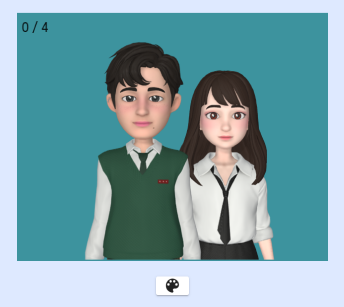
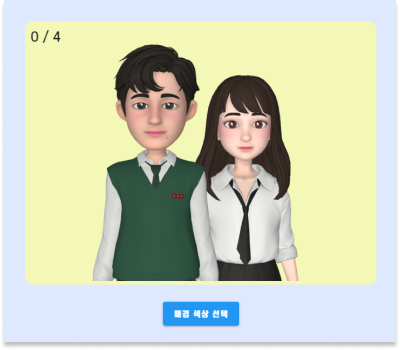
Update: 도움말 이미지 수정

diff --git a/moweb_front/src/views/MainView.vue b/moweb_front/src/views/MainView.vue
@@ -117,7 +117,7 @@ body {
 }
 .titleForm {
   min-width: 777rem;
-  height: 100%;
+  height: 30rem;
   background-repeat: no-repeat;
   background-position: center center;
   background-size: cover;
@@ -131,7 +131,7 @@ body {
   min-width: 777rem;
   color: rgba(0, 0, 0, 1);
   position: absolute;
-  top: 2.5%;
+  top: 25%;
   left: 0px;
   font-family: SCDream;
   font-weight: 5;
@@ -143,7 +143,7 @@ body {
   width: 106rem;
   color: rgba(0, 0, 0, 1);
   position: absolute;
-  top: 1.5%;
+  top: 15%;
   left: 9px;
   font-family: NanumGgeu;
   font-size: 3rem;
@@ -389,16 +389,16 @@ body {
   text-align: center;
 }
 .pictureLast {
-  width: 1277px;
-  height: 186px;
+  width: 76rem;
+  height: 11rem;
   background: url("@/assets/images/pictureLast.png");
   background-repeat: no-repeat;
   background-position: center center;
   background-size: cover;
   opacity: 1;
   position: absolute;
-  left: 10%;
   top: 88%;
+  left: 10%;
   overflow: hidden;
 }
 </style>

diff --git a/moweb_front/src/views/WaitingView.vue b/moweb_front/src/views/WaitingView.vue
@@ -156,7 +156,16 @@
                         max-width="320"
                       >
                         <template v-slot:activator="{ on, attrs }">
-                          <v-btn color="info" large v-bind="attrs" v-on="on"
+                          <v-btn
+                            color="info"
+                            large
+                            v-bind="attrs"
+                            v-on="on"
+                            style="
+                              font-weight: 6;
+                              letter-spacing: 2px;
+                              font-size: 1rem;
+                            "
                             >배경 색상 선택</v-btn
                           >
                         </template>

diff --git a/moweb_front/src/components/HelpModal.vue b/moweb_front/src/components/HelpModal.vue
@@ -234,7 +234,6 @@ export default {
         },
         {
           text: [
-            "팔레트 버튼을 누르면,",
             "사진의 배경 색상을 선택할 수 있습니다.",
             "원하는 색을 골라 다양한 사진을 찍어 보세요.",
           ],
